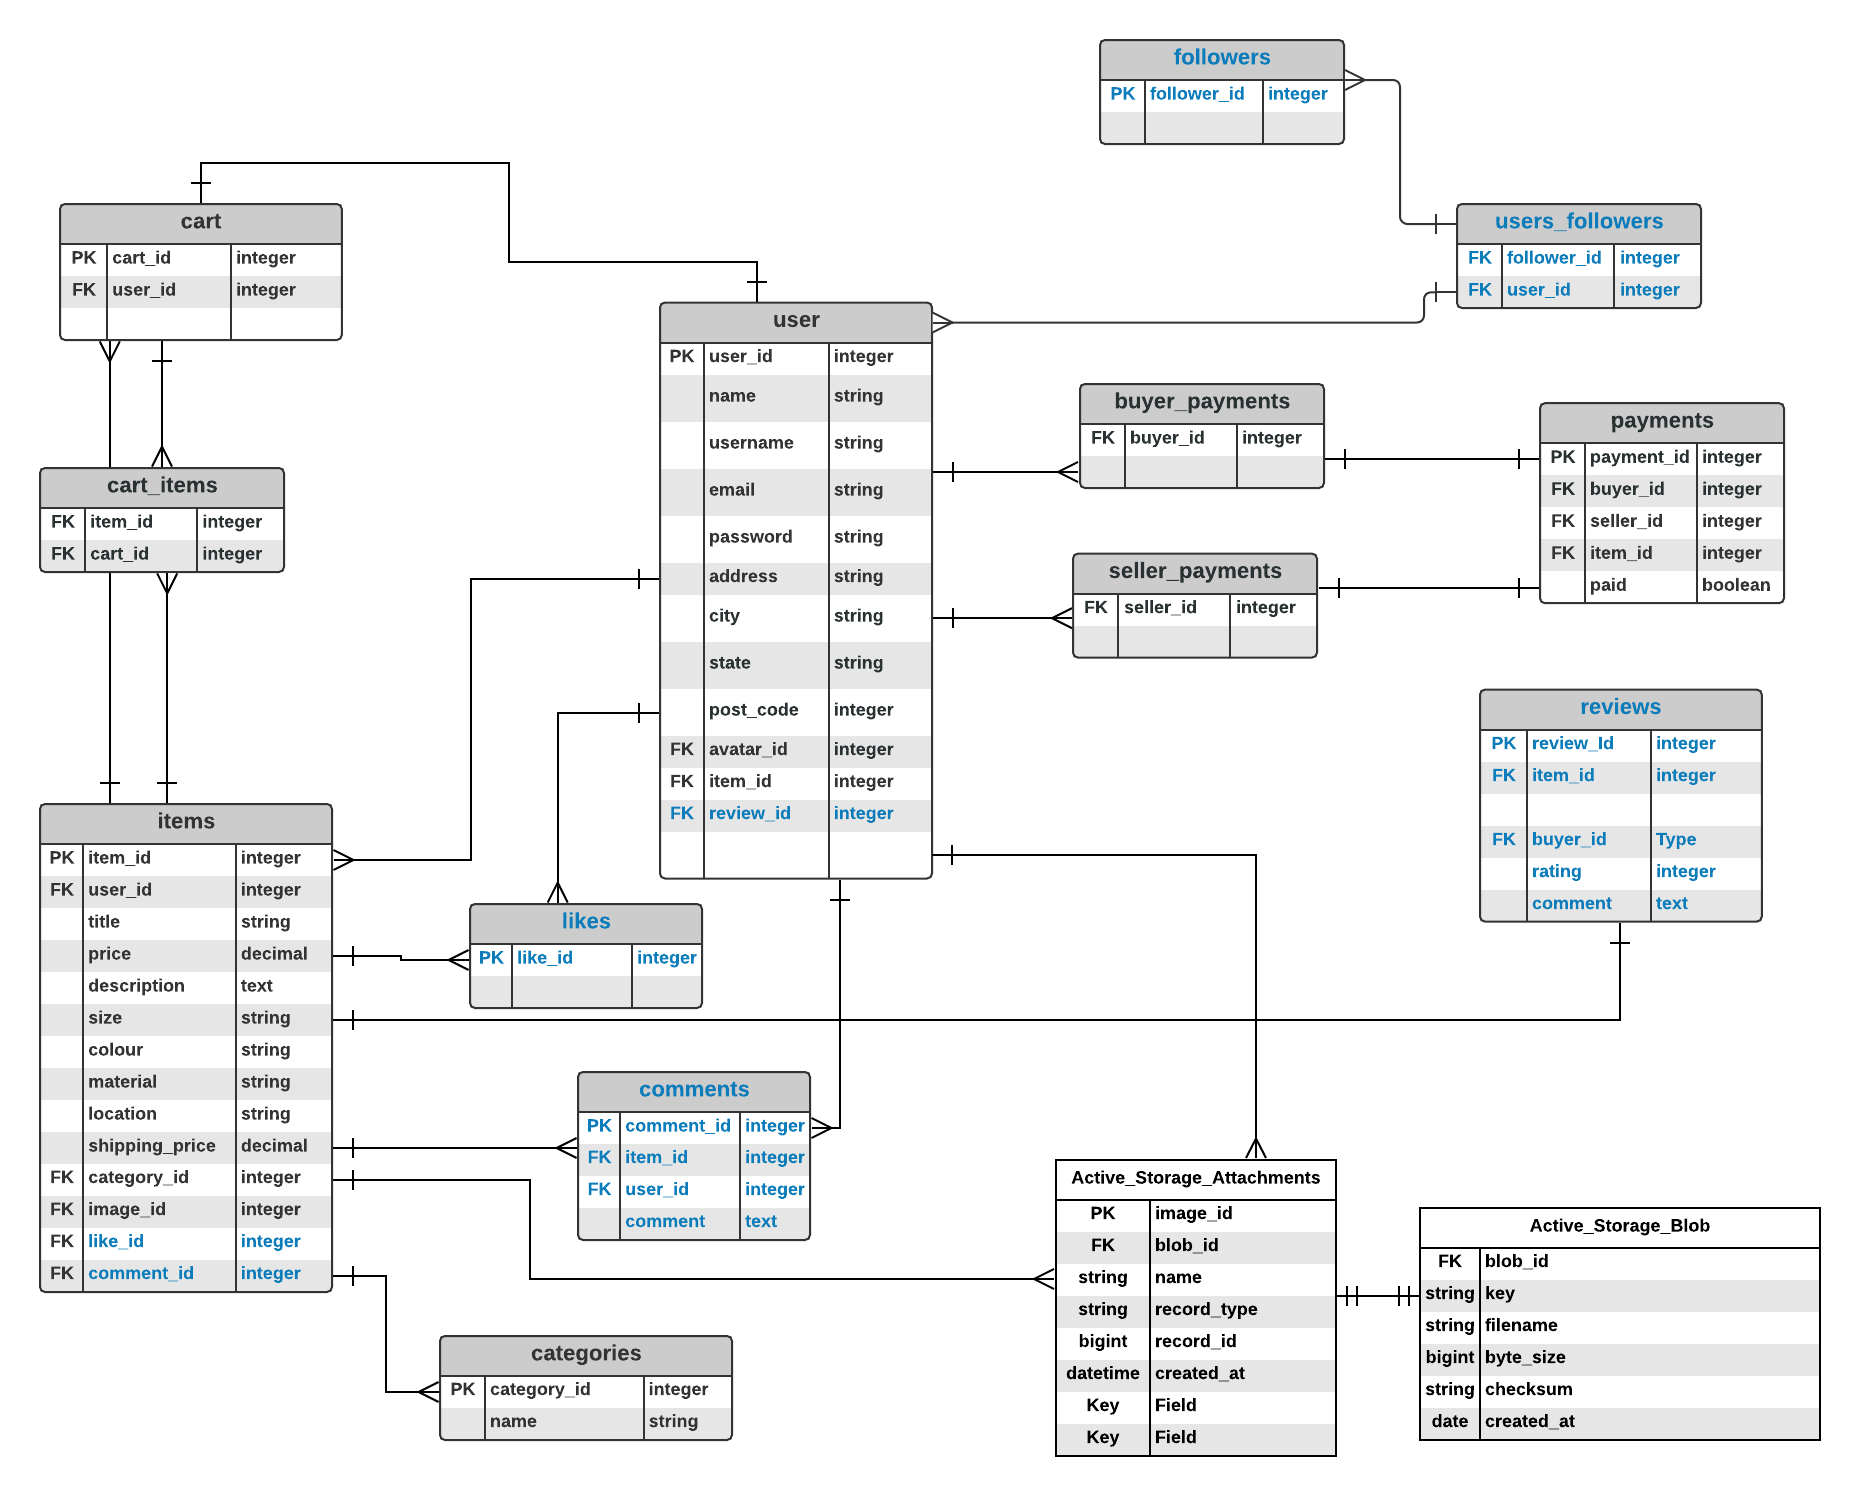
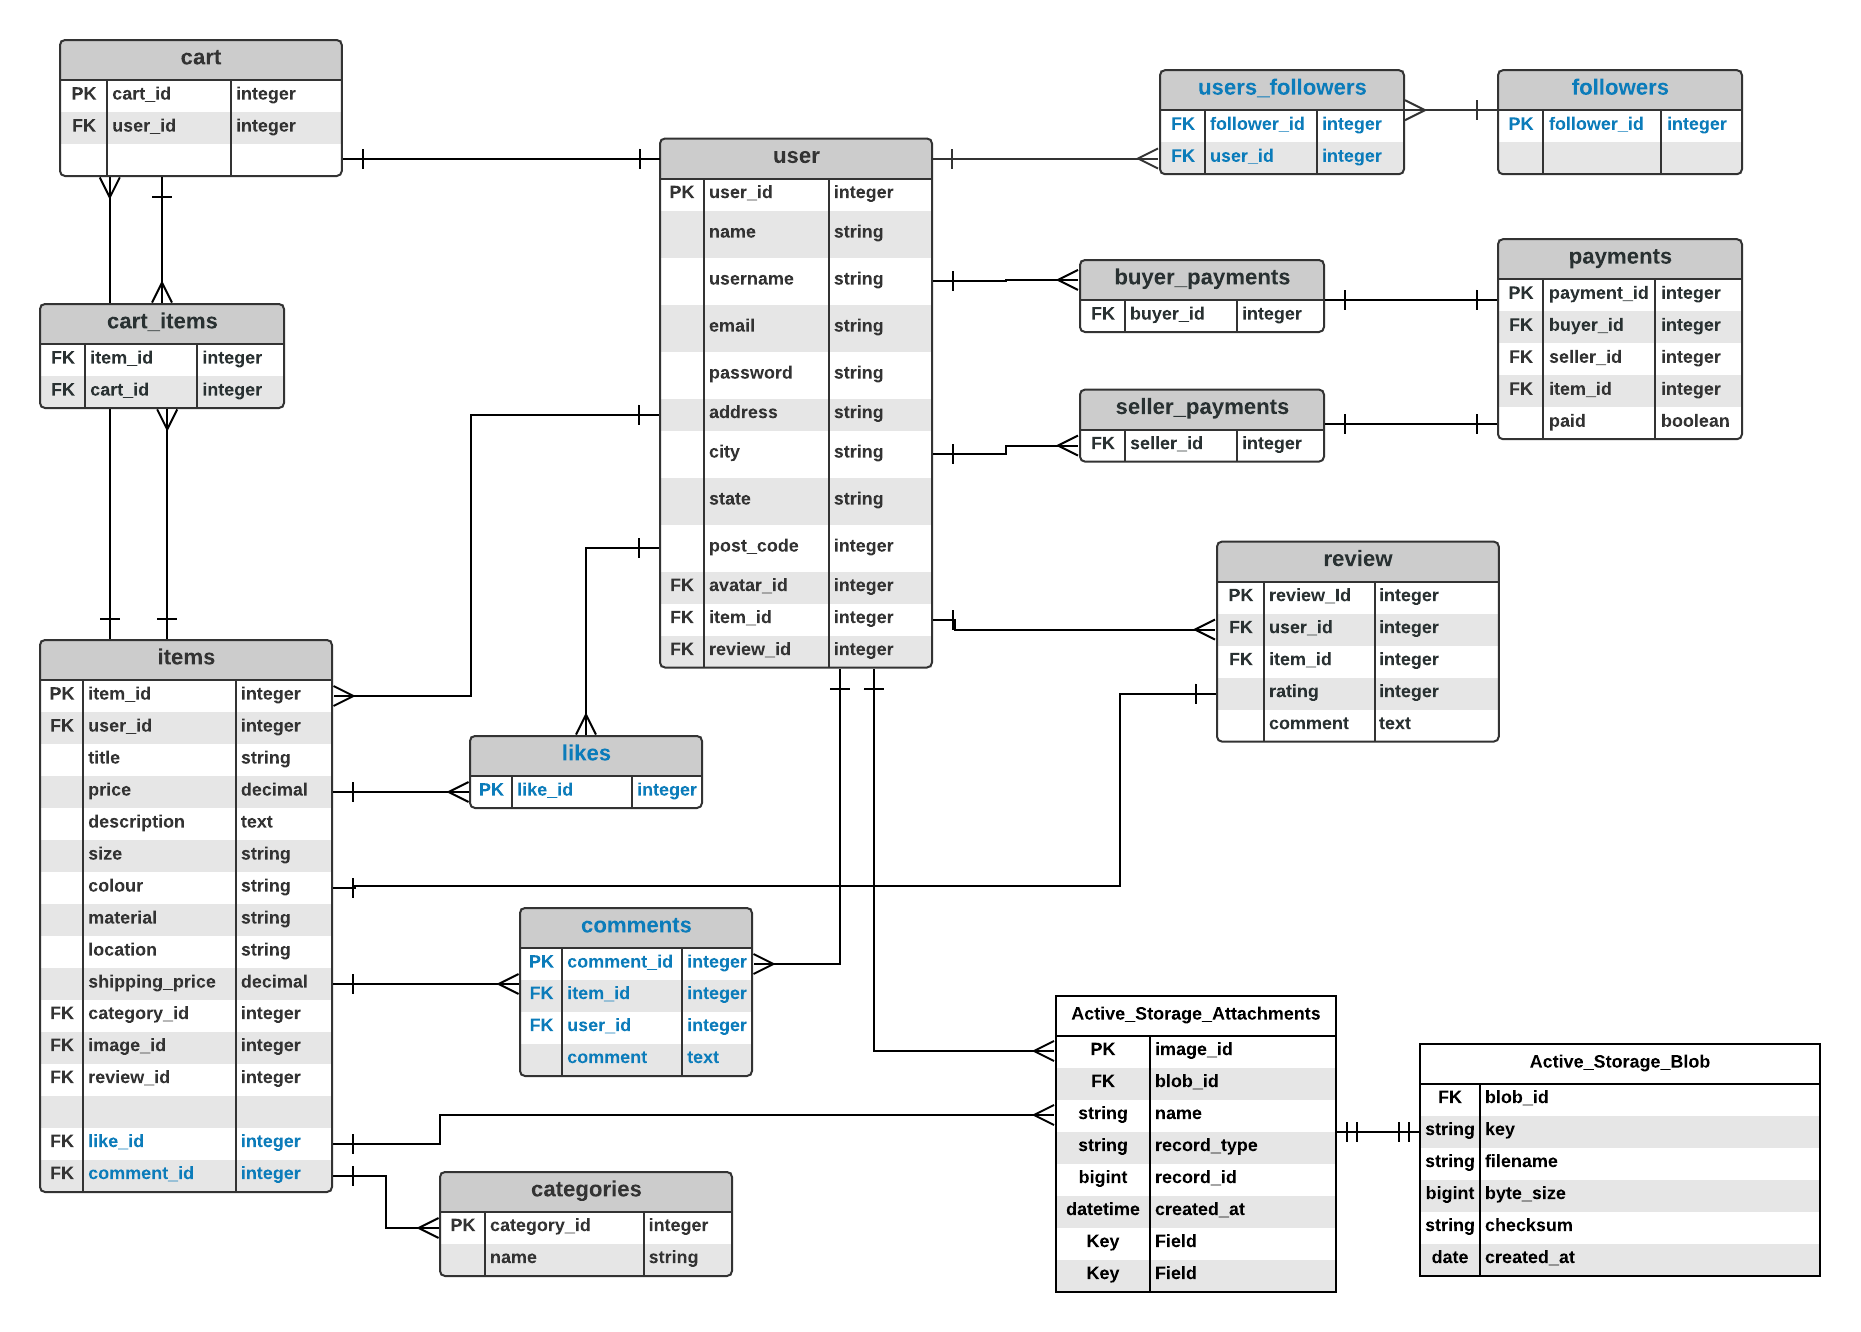
erd update

diff --git a/README.md b/README.md
@@ -255,7 +255,7 @@ This generation is also one for bedroom entrepreneurship and 'side hustling', th
 
 ![ERD-Reviews](https://github.com/Shelby219/Your-Thrift-Co./blob/master/docs/ReviewERD.png)
 
-- **Payment:** This relation functions via an item being able to have one review from a user. Users then are able to have many reviews. The accessibility of this table is done via the users profile. One a user making a purchase and that purchase going into the users bought items. A review button becomes available with that user able to make a review on that item purchased via a rating and a comment. This review then becomes accessed via a users items reviews. 
+- **Review:** This relation functions via an item being able to have one review from a user. Users then are able to have many reviews. The accessibility of this table is done via the users profile. One a user making a purchase and that purchase going into the users bought items. A review button becomes available with that user able to make a review on that item purchased via a rating and a comment. This review then becomes accessed via a users items reviews. 
 
 ### Active Storage
 
